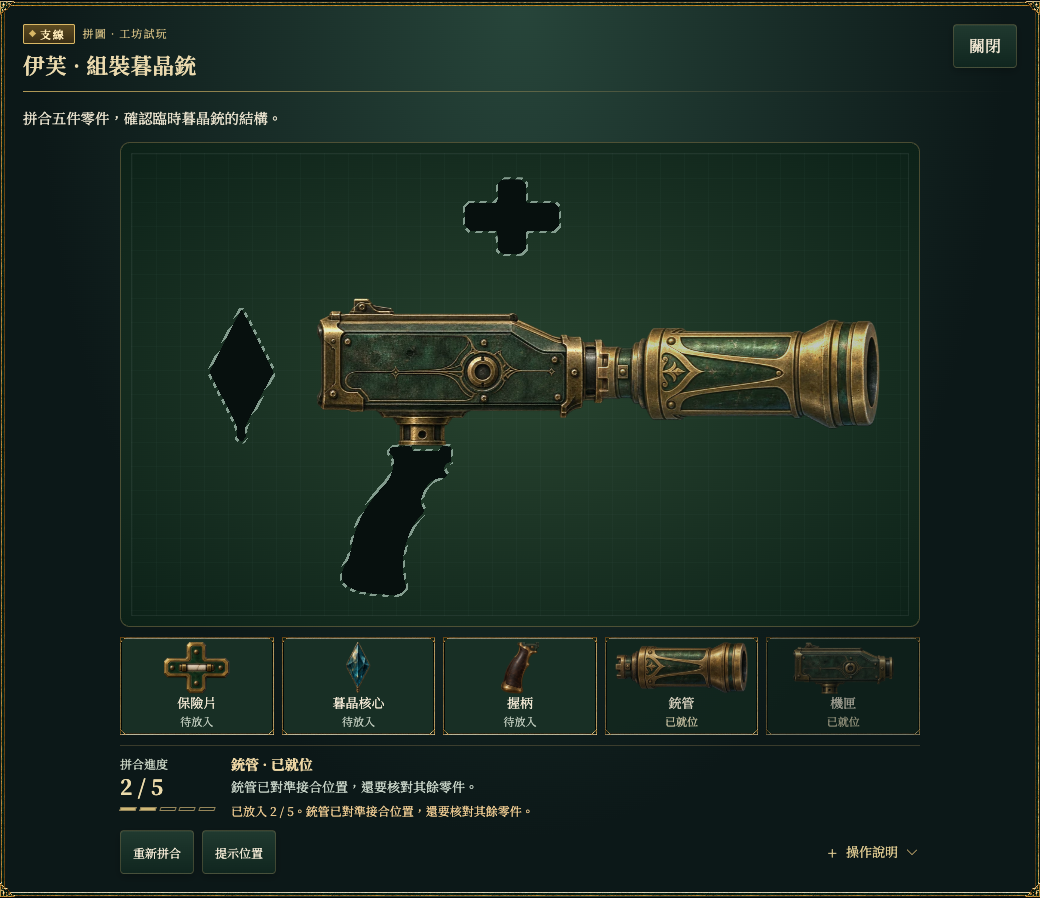
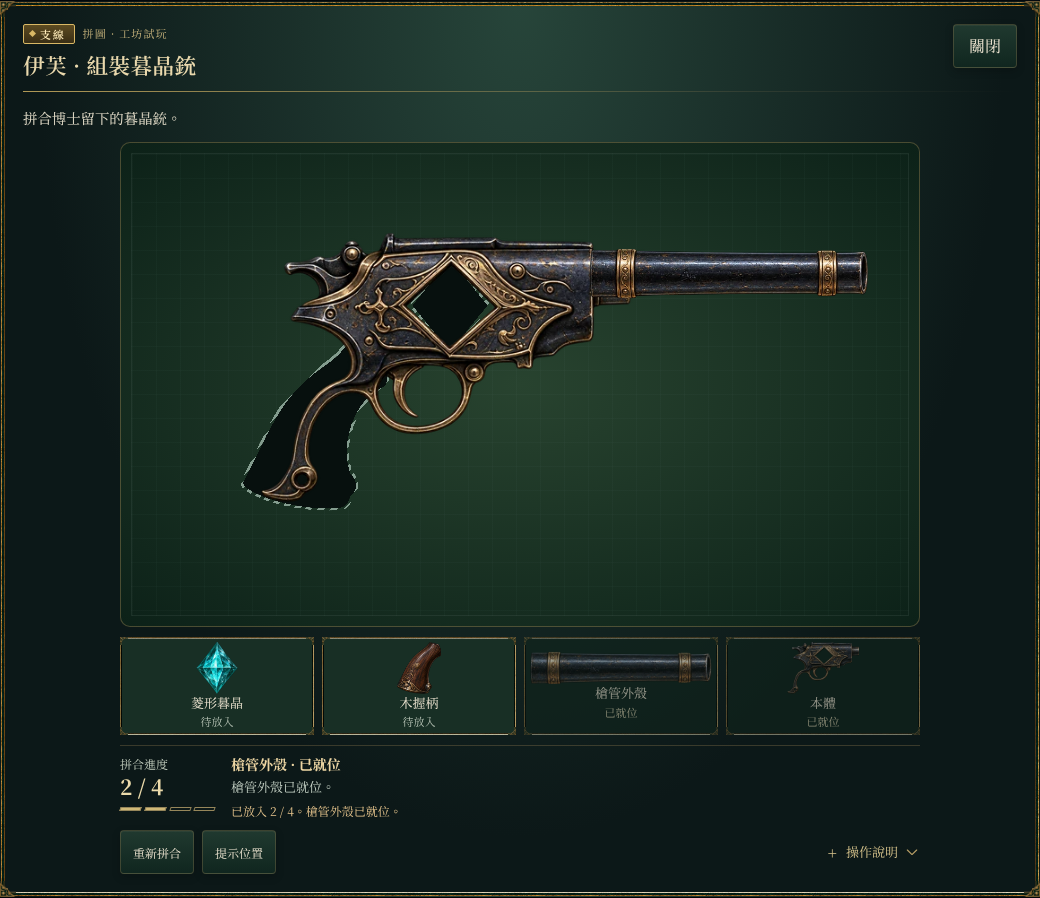
1011

diff --git a/css/book-layout.css b/css/book-layout.css
@@ -134,3 +134,31 @@ body{background:radial-gradient(ellipse at 65% 10%,#f1f1e9 0,#e1e5dc 65%)}
  .reader>.book{height:auto;min-height:0;max-height:none;overflow:visible}
  .book-content{height:auto;overflow:visible;flex:none}
 }
+
+/* 故事設定：標題與說明貼齊頂端，不再因右側照片堆疊較高而垂直置中、留出大片空白。 */
+.world-layout:has(.world-photo-stack){align-items:start}
+.world-layout:has(.world-photo-stack)>div:first-child{padding-top:20px}
+
+/* 手機版：章節欄改為頂端橫列，內文使用整個螢幕寬度。 */
+@media(max-width:680px){
+ :root{--book-height:clamp(360px,calc(100svh - 168px),900px)}
+ .reading-layout{grid-template-columns:minmax(0,1fr);gap:8px;margin-top:8px}
+ .sidebar-nav{height:auto;flex-direction:row;align-items:center;gap:6px;padding:4px 0;overflow:visible;background:transparent}
+ .nav-heading{padding-bottom:0;border-bottom:0;flex:0 0 auto;gap:2px}
+ .nav-heading .nav-title{display:none}
+ .sidebar-nav>.chapters{flex:1 1 auto;min-width:0;flex-direction:row;gap:4px}
+ .reading-layout .chapter-btn{flex:1 1 0;min-width:0;height:44px;min-height:44px;padding:0 4px;flex-direction:column;justify-content:center;gap:1px;border-left-width:1px;border-bottom:2px solid transparent;text-align:center}
+ .reading-layout .chapter-btn[aria-current="step"]{border-left-color:transparent;border-bottom-color:var(--gold)}
+ .reading-layout .chapter-name{font-size:10.5px;line-height:1.25;white-space:nowrap;overflow:hidden;text-overflow:ellipsis;max-width:100%}
+ .reading-layout .chapter-num{font-size:9px}
+ .fullspread,.page-pad,.single .page-pad,.pair>.leaf{padding:22px 16px}
+ .book h2,.book .statement{text-wrap:balance;overflow-wrap:break-word;word-break:keep-all;line-break:strict}
+ .screenshot-feature{grid-template-columns:1fr;gap:20px}
+ .screenshot-feature h2{margin:10px 0 14px}
+ .world-layout:has(.world-photo-stack)>div:first-child{padding-top:0}
+}
+@media(max-width:680px){
+ .reading-layout .chapter-num{display:none}
+ .reading-layout .chapter-btn{justify-content:center;text-align:center}
+ .reading-layout .chapter-name{font-size:11px;text-overflow:clip}
+}

diff --git a/docs/CHANGELOG.md b/docs/CHANGELOG.md
@@ -1,6 +1,6 @@
 # 2026-10-11｜更新遊戲截圖、新增撐盾救援
 
-重新擷取鐘樓逃生路線與礦坑地圖截圖；新增第 9 頁「撐盾救援」（坦克第 3 章節奏小遊戲）。全書改為 14 頁，副本任務章節為第 5–9 頁，回到原點為第 10–12 頁。存檔版本升為 3，舊存檔頁碼自動對應。
+重新擷取鐘樓逃生路線與礦坑地圖截圖；新增第 9 頁「撐盾救援」（坦克第 3 章節奏小遊戲）。全書改為 14 頁，副本任務章節為第 5–9 頁，回到原點為第 10–12 頁。存檔版本升為 3，舊存檔頁碼自動對應。同日補更新組合槍截圖；故事設定頁標題改貼頂端；手機版（≤680px）章節欄改為頂端橫列，內文使用整個螢幕寬度，標題改為平衡換行。
 
 # 2026-10-07｜合併左側導覽列
 

diff --git a/docs/ASSETS.md b/docs/ASSETS.md
@@ -41,3 +41,5 @@
 ## 改編邊界
 
 作品集保留 4 × 4 路塊與 3 × 2 拼圖。遊戲的街區關卡與拼裝關卡有不同的尺寸、目標及情境，不宣稱兩者是相同關卡。角色頁的主題提問是作品集解讀，不是遊戲逐字對白。沒有修改 Game_claude 原始專案。
+
+- 2026-10-11：`story-gun`、`story-nameless`、`lab-dialogue`、`lab-battle`、`story-archive` 亦已由最新版遊戲重拍，`assets/images/screenshots/` 內八張截圖全部為當日擷取。`story-archive` 因 C4 劇情改寫，改用章節最後一句對話的畫面。
